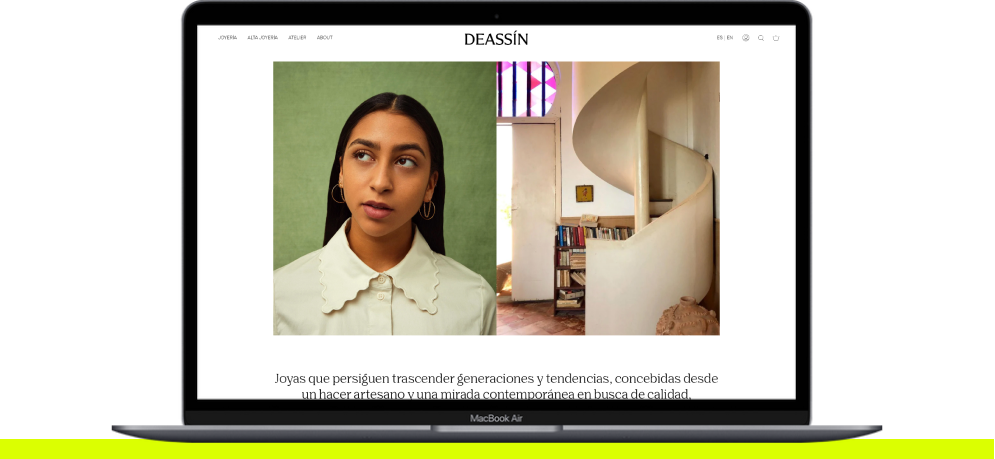
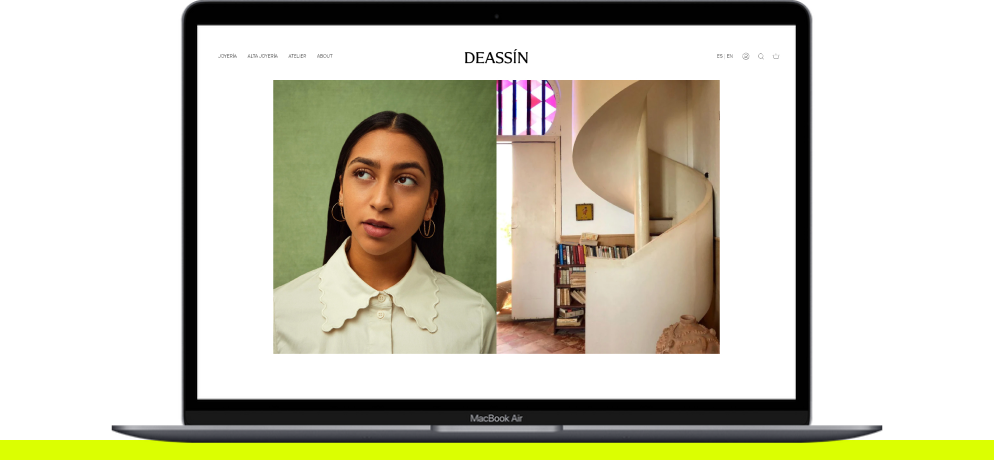
img mac y medidas

Changed region(s): [[0.0935, 0.061, 0.9035, 0.976], [0.4985, 0.427, 0.5296, 0.5185], [0.7166, 0.061, 0.7789, 0.0915]]

diff --git a/styles_responsive.css b/styles_responsive.css
@@ -119,7 +119,7 @@
       }
     .intro{
         width: 80%;
-        height: 680px;
+        height: 660px;
     
     }
     .intro_titulo{
@@ -191,7 +191,7 @@
         
     }
     .intro img{
-        width: 80%;
+        width: 85%;
         
     }
     .conclusion_titulo{
@@ -256,7 +256,7 @@
 
     }
     .intro img{
-        width: 85%;
+        width: 90%;
         height: auto;
         padding-bottom: 18px; 
         
@@ -328,8 +328,8 @@
 
     }
     .intro{
-        height: 670px;
-            
+        height: 600px;
+
     }
     .intro_titulo{
         padding-top: 20px;
@@ -338,7 +338,7 @@
 
     }
     .intro img{
-        width: 87%;
+        width: 95%;
         
     }
     .servicios_categorias {
@@ -628,7 +628,7 @@
 
     }
     .intro img{
-        width: 90%;
+        width: 95%;
      
     }
     .footer_nav img {

diff --git a/index.html b/index.html
@@ -131,7 +131,7 @@
 
 /* imágenes ordenador */
 document.addEventListener("DOMContentLoaded", function() {
-             let imagenes2 = ["img/mac_smile.png","img/mac_deassin_eshop.png","img/mac_web.png","img/mac_alvarogomis.png","img/mac_unmap.png", "img/mac_btehr.png","img/mac_rocio.png","img/mac_alvaro_wordpress.png","img/mac_amarillo.png"];
+             let imagenes2 = [,"img/mac_flores.png","img/mac_deassin_eshop.png","img/mac_smile.png","img/mac_web.png","img/mac_alvarogomis.png","img/mac_unmap.png", "img/mac_btehr.png","img/mac_rocio.png","img/mac_alvaro_wordpress.png","img/mac_amarillo.png"];
              let tiempoIntervalo2 = 1000; 
 
               let indiceImagenActual2 = 0;

diff --git a/styles.css b/styles.css
@@ -187,7 +187,7 @@ font-family: 'Noto Serif Display', serif;
 
             }
             .intro img{
-                width: 65%;
+                width: 85%;
                 height: auto;
                 padding-bottom: 50px;   
 
